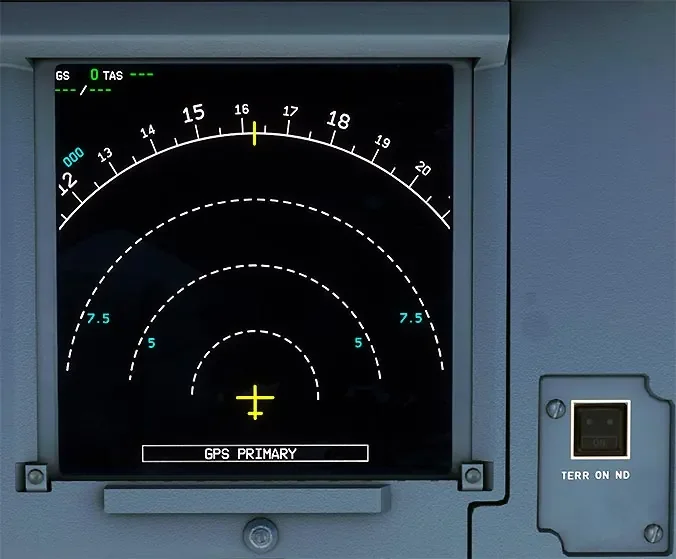
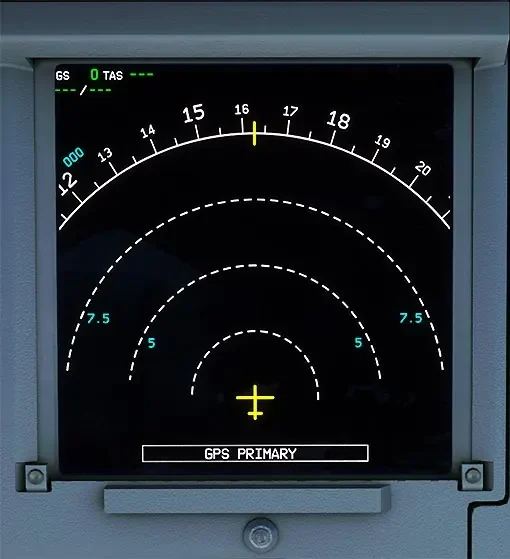
v0.2.2: crop TERR ON ND area so the ND fills the panel width
Claude-Session: https://claude.ai/code/session_01HhPZEGZBDJ7mwBUGuRM1qA

diff --git a/css/app.css b/css/app.css
@@ -72,7 +72,7 @@ button{font:inherit;color:inherit}
 .modal .mhead span{flex:1}
 .modal .mcdu{width:min(94vw,calc((100dvh - 90px)*563/880),563px)}
 /* ND + EFIS (photo panels, live overlays) */
-.ndpanel{flex:0 0 auto;width:min(100%,calc((100dvh - 128px)/1.43),480px);display:flex;flex-direction:column;gap:6px}
+.ndpanel{flex:0 0 auto;width:min(100%,calc((100dvh - 128px)/1.69),480px);display:flex;flex-direction:column;gap:6px}
 .efis{position:relative;width:100%;aspect-ratio:676/401;border-radius:10px;overflow:hidden;user-select:none;-webkit-user-select:none;touch-action:manipulation}
 .efis-img{position:absolute;inset:0;width:100%;height:100%;display:block;pointer-events:none;-webkit-user-drag:none}
 .efis button{position:absolute;background:transparent;border:0;padding:0;cursor:pointer;-webkit-tap-highlight-color:transparent;border-radius:6px}
@@ -83,8 +83,8 @@ button{font:inherit;color:inherit}
 .efb:active{background:rgba(255,255,255,.06)}
 .knob{position:absolute;border-radius:50%;overflow:hidden;pointer-events:none;transition:transform .18s ease-out}
 .knob img{position:absolute;max-width:none;display:block}
-.ndbezel{position:relative;width:100%;aspect-ratio:676/559;border-radius:10px;overflow:hidden}
+.ndbezel{position:relative;width:100%;aspect-ratio:510/559;border-radius:10px;overflow:hidden}
 .ndbezel img{position:absolute;inset:0;width:100%;height:100%;display:block;pointer-events:none}
-#nd{position:absolute;left:8.432%;top:11.449%;width:58.432%;height:74.419%;display:block;background:#000}
+#nd{position:absolute;left:11.176%;top:11.449%;width:77.451%;height:74.419%;display:block;background:#000}
 @media (prefers-reduced-motion:reduce){.knob{transition:none}}
 @media (max-width:760px){.side{max-width:none}.mark{font-size:20px}}

diff --git a/index.html b/index.html
@@ -10,7 +10,7 @@
 </head>
 <body>
 <div class="app">
-  <header class="top"><span class="mark">Airmanship Procedure Trainer</span><span class="appver">v0.2.1 · Phase 1 prototype</span></header>
+  <header class="top"><span class="mark">Airmanship Procedure Trainer</span><span class="appver">v0.2.2 · Phase 1 prototype</span></header>
   <nav class="tabs" role="tablist">
     <button class="tab" role="tab" data-v="mcdu" aria-selected="true">MCDU</button>
     <button class="tab" role="tab" data-v="3d" aria-selected="false">Cockpit 3D</button>

diff --git a/README.md b/README.md
@@ -4,7 +4,7 @@ An unofficial A320 **procedure** trainer that runs in the browser (iPad first). 
 
 Not affiliated with any airline. Not a substitute for the FCOM, FCTM or operator manuals. The navigation data was typed from charts for training only and must never be used for navigation.
 
-## Status: Phase 1 prototype (v0.2.1)
+## Status: Phase 1 prototype (v0.2.2)
 
 - **MCDU** (Thales FMS2 layout, per FCOM DSC-22): keyboard and scratchpad, INIT A, F-PLN with TMPY (ERASE/INSERT), LAT REV, DEPARTURE, AIRWAYS (with airway-to-airway intersection), ARRIVAL, waypoint insertion, CLR of waypoints and discontinuities.
 - **Exercise** OEJN to OETB: RWY 16C MIGD2E, L677 WEJ, V54 TBK, ILS 31 via D179O, ALTN OEMA, FL340, CI 20, with automatic progress checks.
